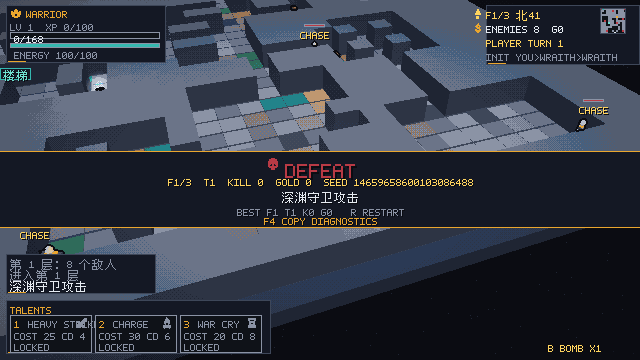
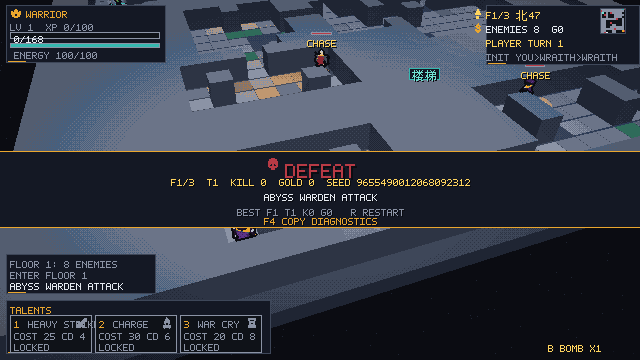
feat: english battle log lines

diff --git a/docs/LOCALIZATION.md b/docs/LOCALIZATION.md
@@ -17,13 +17,15 @@
 - 敌人名/短名、意图（ATK/RANGED/CHASE/STUN）、先攻 YOU
 - 帮助页 16 行
 - 死亡/胜利标题、BEST/R RESTART
+- 常见战斗日志（楼层/敌人/陷阱/宝箱/灼烧/升级/击杀/命中/伤害/Boss 阶段）
+- 死亡原因
 - F2 按 L 切换 ZH/EN，settings.language 持久化
 - --lang en 可直接看英文设置/菜单
 
 ## 没有
 
 - 暂停/BADGES 仍是英文固定文案（中文模式下不切换）
-- 战斗日志/死亡原因/物品/商店/祭坛/天赋瞄准提示未翻译
+- 罗盘方位/世界内“楼梯”标签/物品/商店/祭坛/天赋瞄准提示未翻译
 - 没有语言选择 UI（F2 里没有）
 - 没有英文截图/字体溢出验收
 - 没有内容翻译（406 去重字符串）
@@ -41,4 +43,4 @@
 - 历史日志切语言后不会重译
 - CJK 字体子集不影响 ASCII，但英文排版需重新测宽
 
-当前状态：**导航 + 职业卡 + 核心 HUD 部分英文**，不是完整英文版。截图：settings_en.png / menu_en.png / gameplay_en.png / help_en.png / death_en.png。
+当前状态：**导航 + 职业卡 + 核心 HUD 部分英文**，不是完整英文版。截图：settings_en.png / menu_en.png / gameplay_en.png / help_en.png / death_en.png；日志为显示层翻译，存档仍存中文。

diff --git a/README.md b/README.md
@@ -223,7 +223,7 @@ docs/           RUN_V1 / SAVE / ART_PASS / UX_REVIEW_RUN / screenshots
 
 ## 验证
 
-- zig build / zig build test：14/14 steps、231/231 tests。
+- zig build / zig build test：14/14 steps、232/232 tests。
 - headless：可生成职业菜单/开始/战斗/角色/背包/胜利截图；`--start-menu` 输出 `docs/screenshots/run_select.png`。
 - 职业菜单显示的 SEED 就是本局真实 seed；选择职业只按同一 seed 重开；R 保留职业，未锁定时换新 seed。
 - 大图 QA（100 seed × 3 职业，纯逻辑 bot）：普通 63.3%（190/300）：狂战士 43%、元素法师 85%、时空法师 62%；困难 39.0%（117/300）；简单 86.7%（260/300），0 超时/不变量违规；test-qa 139/139。

diff --git a/docs/QA_RUN2.md b/docs/QA_RUN2.md
@@ -181,7 +181,7 @@ zig build test-qa --summary all
 | 平均到达层 | 2.99 | 3.00 | 3.00 | 3.00 |
 | 超时 | 0 | 0 | 0 | 0 |
 
-- zig build test：231/231；zig build test-qa：143/143；test-qa3：219/219。
+- zig build test：232/232；zig build test-qa：143/143；test-qa3：220/220。
 - 0 不变量违规；死亡集中在 F3（95），F2 18。
 - 第 9 节的 64.3% 保留为 13×13 历史基线。
 - auto 仍是巡检 bot，在 31×31 Boss 层可能停住；以 test-qa 批量结果为准。
